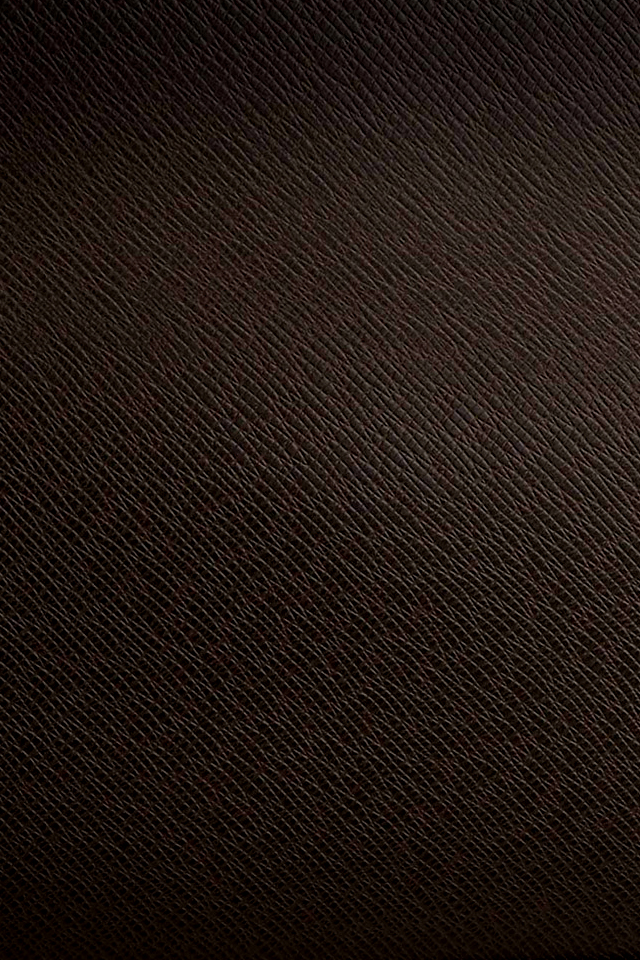
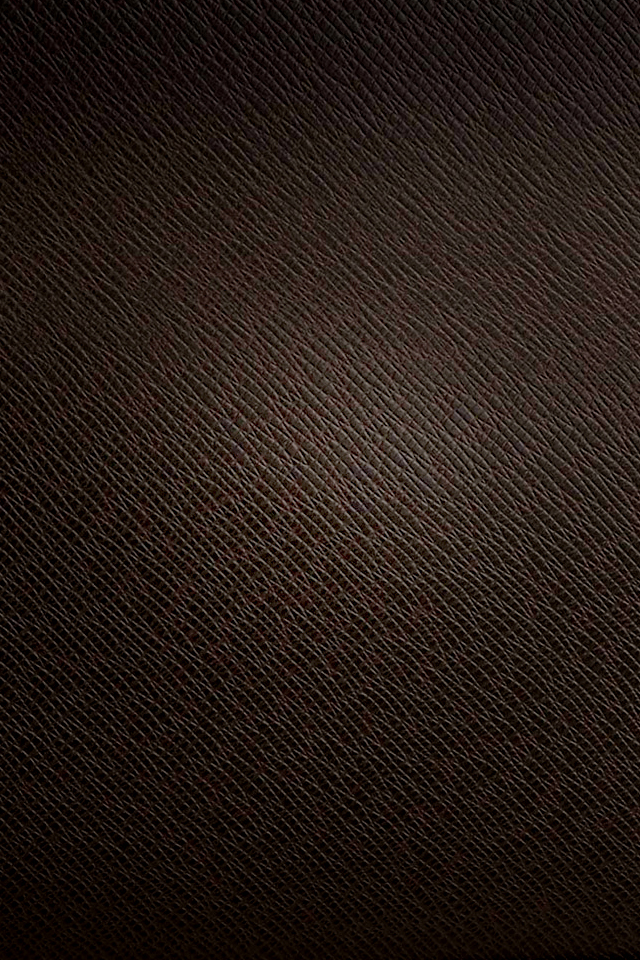
* Updated the README.md file to mention the issue of the auto orientation * in the current OS.
* Added minor implicit animation for the play/pause button presses (by
* changing the scale values).

* Cleaned up the code a little bit; added a few more comments and error
* log messages.

* Edited the background image to include some gradient effects.

Changed region(s): [[0.3125, 0.375, 0.7188, 0.625]]

diff --git a/MultimediaSampleApps/VideoPlayerSample/assets/main.qml b/MultimediaSampleApps/VideoPlayerSample/assets/main.qml
@@ -37,7 +37,7 @@ Page {
         property string localVideoPath: "/app/native/assets/BB10DevAlpha.wmv"
         
         property double minScreenScale: 0.2        //THIS IS THE MINIMUM SCALE FACTOR THAT WILL BE APPLIED TO THE SCREEN SIZE
-        property double maxScreenScale: 2.5        //THIS IS THE MAXIMUM SCALE FACTOR THAT WILL BE APPLIED TO THE SCREEN SIZE
+        property double maxScreenScale: 2.0        //THIS IS THE MAXIMUM SCALE FACTOR THAT WILL BE APPLIED TO THE SCREEN SIZE
         property double initialScreenScale: 1.0    // Starts the video with original dimensions (that is, scale factor 1.0)
                                                     //NOTE: this is not to be confused with the "initialScale" property of the ForeignWindow below
                                                     //        They both start with the same value but the "initialScale" value is different for every new pinch 
@@ -52,7 +52,6 @@ Page {
         
         //background
         ImageView {
-            //imageSource: "asset:///images/black_pattern09.jpg"
             imageSource: "asset:///images/background.jpg"
             preferredWidth: maxContainer.preferredWidth
             preferredHeight: maxContainer.preferredHeight
@@ -100,6 +99,14 @@ Page {
             } else if (event.isMove()) {
                 videoSurface.translationX = event.localX - xDown + startingX;
                 videoSurface.translationY = event.localY - yDown + startingY;
+                
+            } else if (event.isUp() ) {
+                // Since the playPauseImage is on top of this layer and since overlap touch has been set to be true, 
+                // pressing down on the playPauseImage and letting it go will result into here
+                // For this edge case, reset the scale values of this image (which is being used a button, below)
+                playPauseImage.scaleX = 1.00;
+                playPauseImage.scaleY = 1.00;
+                playPauseImage.opacity = 1.00;
             }
         } // onTouch
 
@@ -245,7 +252,6 @@ Page {
                 value: maxContainer.initialScreenScale     // starting with the default size of the video
                 onValueChanging: {
                     requestedValue = value;
-                    //console.log("Slider onValueChanging : value = " + value + " : requestedValue = " + requestedValue);
                     
                     videoSurface.preferredWidth = player.videoDimensions.width * value;
                     videoSurface.minWidth = player.videoDimensions.width  * value;
@@ -268,7 +274,7 @@ Page {
                 //background: Color.Red
                 ImageView {
                     id: playPauseImage
-                    preferredWidth: 150
+                    preferredWidth: 120
                     preferredHeight: 150
                     imageSource: "asset:///images/play.png"
                     property bool playing: false
@@ -277,24 +283,35 @@ Page {
                         verticalAlignment: VerticalAlignment.Top
                     }
                     onTouch: {
-                        if (event.isUp()) {
+                        
+                        if (event.isDown() ) {
+                            // changing the size of the picture a bit to do implicit animation of the button represented by this image
+                            scaleX = 1.10;
+                            scaleY = 1.20;
+                            opacity = 0.6;
+                            
+                        } else if (event.isUp()) {
+                            // do the actual operations of the button on release of the touch
+                            
+                            // first, set the scaling and opacity back to the original
+                            scaleX = 1.00;
+                            scaleY = 1.00;
+                            opacity = 1.00;
+                            
                             if (playing) {
-                                if (player.pause() != MediaError.MediaErrorNone ) {
+                                var result = player.pause();
+                                if (result != MediaError.MediaErrorNone) {
                                     // Error handling
-                                } // if
+                                    console.log("ERROR: ImageView : onTouch : player.pause()");
+                                }
                             } else {
-                                
-                                //if ( player.source == "" ) {
-                                    // source is still empty; set it
-                                  //  player.source = app.currPath + maxContainer.videoPathToAppend;
-                                   // console.log("set the player.source = " + player.source);
-                                //}
-                                
-                                if ( player.play() != MediaError.MediaErrorNone ) {
+                                var result = player.play();
+                                if (result != MediaError.MediaErrorNon) {
                                     // Error handling
-                                } // if
-                            } 
-                        } // if event.isUP
+                                    console.log("ERROR: ImageView : onTouch : player.play()");
+                                }
+                            } // else
+                        }
                     } // onTouch
                 } // ImageView
                 
@@ -313,8 +330,7 @@ Page {
                     //background: Color.Green
                     Label {
                         id: currentTime
-                        //NOTE: Using absolute value here
-                        text: "0:00"
+                        // the "text" will be set when media plays
                         textStyle {
                             color: Color.White
                             fontWeight: FontWeight.Normal
@@ -329,6 +345,7 @@ Page {
                         property bool seekInProgress: false
                         property int requestedValue
                         property bool wasPlaying: false
+                        //NOTE: Using absolute value here for the preferredWidth
                         preferredWidth : maxContainer.preferredWidth - 2*85
                         layoutProperties: StackLayoutProperties {
                             verticalAlignment: VerticalAlignment.Bottom
@@ -338,16 +355,15 @@ Page {
                         toValue: player.duration
                         onTouch: {
                             if (event.isDown()) {
-                                console.log("Slider event.isDown");
+                                
                                 seekInProgress = true;
                                 if (playPauseImage.playing) {
                                     wasPlaying = true;
-                                    console.log("Was Playing = true");
-                                    // pause the playback so that the it doesn't keep trying to play it (because the audio sounds
+                                    // pause the playback so that the it doesn't keep trying to play it while being dragged/seeked (which causes audio disrupt)
                                     player.pause();
                                 }
                             } else if (event.isUp() || event.isCancel()) {
-                                console.log("Slider event.isDown || event.isCancel");
+                                
                                 seekInProgress = false;
                                 if (wasPlaying) {
                                     player.play();
@@ -357,7 +373,6 @@ Page {
                         }
                         onValueChanging: {
                             requestedValue = value
-                            //console.log("progressSlider onValueChanging : value = " + value + " : requestedValue = " + requestedValue);
                             if (seekInProgress) {
                                 player.seekTime(value);
                             }
@@ -365,7 +380,7 @@ Page {
                     } // progressSlider   
                     Label {
                         id: totalTime
-                        // note: the "text" property of this will be set when the video start playing
+                        // Note: the "text" attribute will be set when the media plays
                         textStyle {
                             color: Color.White
                             fontWeight: FontWeight.Normal
